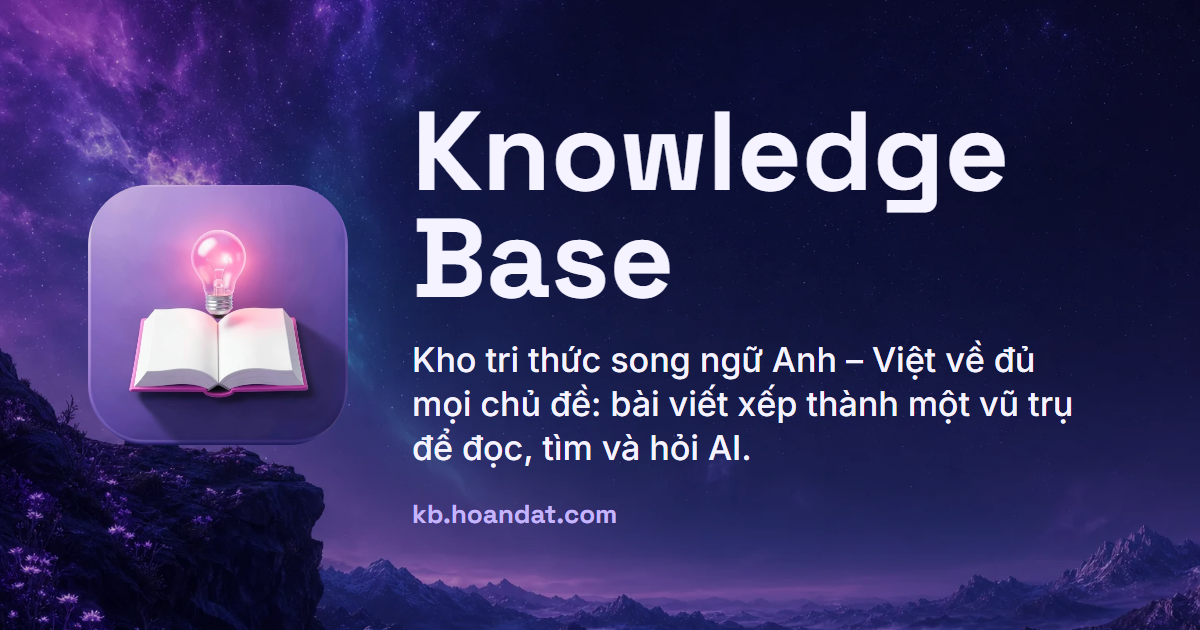
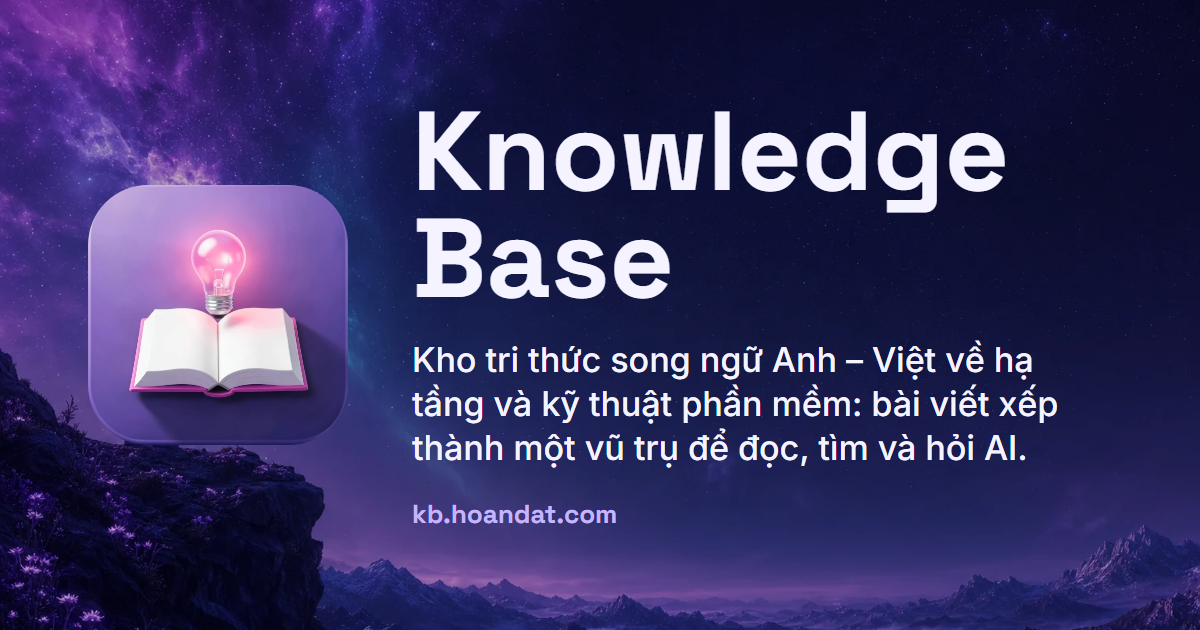
feat(content): scope the knowledge base to infrastructure and software engineering, with new crystal art for the new Spaces
Topics must be tech, the third-share rule is gone. Adds engineering Spaces (security, databases, email, web, CI/CD, AI) and a technical-marketing Space, their crystals and spare planet art.

Changed region(s): [[0.3392, 0.5429, 0.8942, 0.754]]

diff --git a/scripts/content-queue.test.ts b/scripts/content-queue.test.ts
@@ -11,7 +11,7 @@ const englishBody = `> [!TLDR]\n> - First point.\n> - Second point.\n\n## Introd
 /** The same in English. */
 const linkedEn = (title: string, ...links: string[]): string => article(`title: ${title}\ntags: test`, `${links.map((l) => `See [[${l}]].`).join(' ')}\n\n${englishBody}`);
 const spaces: Spaces = { existing: ['networking'], create: [{ slug: 'ky-nang', nameVi: 'Kỹ năng', nameEn: 'Skills', tint: '#FBCFE8', glow: '#EC4899', art: '/art/orb-universe.webp', unitVi: 'bài', unitEn: 'articles' }] };
-const topic = (slug: string, extra: Partial<Topic> = {}): Topic => ({ slug, space: 'ky-nang', lang: 'vi', name: slug, nameEn: slug, tech: false, brief: '', status: 'todo', ...extra });
+const topic = (slug: string, extra: Partial<Topic> = {}): Topic => ({ slug, space: 'ky-nang', lang: 'vi', name: slug, nameEn: slug, tech: true, brief: '', status: 'todo', ...extra });
 const empty: Ledger = { planets: [], posts: [] };
 /** The English twin of a Vietnamese test article: its title and each link get " EN" added. */
 const twinOf = (text: string): string => {
@@ -78,11 +78,11 @@ describe('links', () => {
 });
 
 describe('checkTopics', () => {
-  it('needs known Spaces, unique slugs, names and tech at most a third', () => {
-    expect(checkTopics([topic('a'), topic('b'), topic('c', { tech: true, space: 'networking' })], spaces)).toEqual([]);
+  it('needs known Spaces, unique slugs, names and engineering-only topics', () => {
+    expect(checkTopics([topic('a'), topic('b'), topic('c', { space: 'networking' })], spaces)).toEqual([]);
     const problems = checkTopics([topic('a', { space: 'nowhere' }), topic('a'), topic('B', { name: '' })], spaces).map((p) => p.message);
     expect(problems).toEqual(['unknown Space "nowhere"', 'slug is listed twice', 'slug must be lowercase letters, digits and dashes', 'name must be 1–80 characters']);
-    expect(checkTopics([topic('a', { tech: true }), topic('b')], spaces).map((p) => p.message)).toEqual(['1 of 2 topics are tech; keep tech at most a third']);
+    expect(checkTopics([topic('a', { tech: false })], spaces).map((p) => p.message)).toEqual(['tech must be true: the knowledge base covers engineering topics only']);
   });
 });
 

diff --git a/scripts/content-queue.ts b/scripts/content-queue.ts
@@ -54,7 +54,7 @@ export interface Topic {
   /** The Collection's name. */
   name: string;
   nameEn: string;
-  /** A tech topic; these stay at most a third of the list (the knowledge base covers all kinds of topics). */
+  /** Always true: the knowledge base covers infrastructure and software engineering only (cloud, servers, networks, data, mail, web, AI tooling). */
   tech: boolean;
   /** What the planet covers and the articles it could hold. */
   brief: string;
@@ -217,13 +217,11 @@ export function checkTopics(topics: readonly Topic[], spaces: Spaces, file = 'co
     if (!known.has(topic.space)) problems.push({ file: where, message: `unknown Space "${topic.space}"` });
     if (!(TOPIC_STATUSES as readonly string[]).includes(topic.status)) problems.push({ file: where, message: `status must be one of ${TOPIC_STATUSES.join(', ')}` });
     if (topic.lang !== 'vi' && topic.lang !== 'en') problems.push({ file: where, message: 'lang must be vi or en' });
-    if (typeof topic.tech !== 'boolean') problems.push({ file: where, message: 'tech must be true or false' });
+    if (topic.tech !== true) problems.push({ file: where, message: 'tech must be true: the knowledge base covers engineering topics only' });
     for (const [key, value] of [['name', topic.name], ['nameEn', topic.nameEn]] as const) {
       if (!value?.trim() || value.length > MAX_NAME_CHARS) problems.push({ file: where, message: `${key} must be 1–${MAX_NAME_CHARS} characters` });
     }
   }
-  const tech = topics.filter((t) => t.tech).length;
-  if (tech * 3 > topics.length) problems.push({ file, message: `${tech} of ${topics.length} topics are tech; keep tech at most a third` });
   return problems;
 }
 

diff --git a/docs/admin-api.md b/docs/admin-api.md
@@ -115,7 +115,7 @@ Bài đăng xong hiện ngay ở C09/C10 với nhãn Chính thức; `"hidden": t
 Hai cloud routine của Claude lo hàng chờ:
 
 - **Routine chiến lược** (Opus, mỗi ngày một lần): chỉ sửa `content/topics.json` và `content/spaces.json`. Nó giữ danh
-  sách chủ đề cân bằng giữa các Space, thêm hành tinh mới khi còn ít hơn 6 mục
+  sách chủ đề trong phạm vi kỹ thuật, cân bằng giữa các Space, thêm hành tinh mới khi còn ít hơn 6 mục
   `todo` và mở **đợt bổ sung** cho hành tinh đã đăng (đặt chủ đề `published` về `todo` kèm `brief` mới nêu các bài cần
   thêm). Nó không viết bài và không lập chủ đề `-en` cho hành tinh tiếng Việt: bản tiếng Anh đi kèm từng bài.
 - **Routine viết bài** (Sonnet, nhiều lượt mỗi ngày): mỗi lượt làm **một** mục `todo` đầu tiên trong danh sách, viết bài
@@ -125,8 +125,8 @@ Hai cloud routine của Claude lo hàng chờ:
   bổ sung** (1–5 bài, mỗi bài nối vào bài đã đăng hoặc đang chờ của chính hành tinh đó).
 
 GitHub Actions đăng bài **hiện ngay**, không chờ người duyệt (chủ dự án chốt 07/11/2026). Bài có lỗi thì quản trị ẩn
-hoặc sửa ở A02 (`/admin/content`), hoặc qua `PUT /api/admin/posts/:id/text`. kb là kho kiến thức đủ mọi chủ đề nên bài
-công nghệ không quá một phần ba.
+hoặc sửa ở A02 (`/admin/content`), hoặc qua `PUT /api/admin/posts/:id/text`. kb chỉ giữ chủ đề hạ tầng và kỹ thuật phần mềm (từ 21/11/2026; trước đó có cả đời sống, kỹ năng, văn hoá, khoa học): mọi chủ đề
+phải có `tech: true`, `check:queue` từ chối chủ đề khác.
 
 **Song ngữ (từ 08/11/2026):** mỗi bài tiếng Việt của hành tinh `lang: "vi"` có **bản dịch tiếng Anh** đi kèm, đăng
 như một ngôn ngữ khác của chính bài đó (cùng nhóm dịch, Space và Collection; giao diện chọn bản theo ngôn ngữ người

diff --git a/README.md b/README.md
@@ -3,7 +3,7 @@
 Thư mục repo: `kb-next` (tên hiển thị lấy từ [`brand.config.json`](brand.config.json), không có hậu tố `-next`).
 Chạy tại `https://kb.hoandat.com`, thuộc hệ sinh thái hoandat.com.
 
-Knowledge base công khai, song ngữ Anh – Việt về đủ mọi chủ đề (công việc, đời sống, học tập, công nghệ…), xếp thành một
+Knowledge base công khai, song ngữ Anh – Việt về hạ tầng và kỹ thuật phần mềm (cloud, Linux, mạng, Docker, Kubernetes, quan sát hệ thống, bảo mật, cơ sở dữ liệu, email, lập trình web, AI cho kỹ sư), xếp thành một
 "Universe" để đọc, tìm và hỏi AI. kb tự giữ nội dung trong database: bài chính thức sửa bằng trình soạn hoặc API quản trị ([`docs/admin-api.md`](docs/admin-api.md)); về sau AI tìm và bổ sung nội dung từ web. Giao diện bám sát bộ mock Universe đã chốt (51 board trong [`design/`](design)).
 
 **Trạng thái:** nền móng. Đăng nhập bằng tài khoản hoandat.com chạy được (kể cả đăng xuất từ IdP), mọi route đã có

diff --git a/CREDITS.md b/CREDITS.md
@@ -3,7 +3,7 @@
 ## AI-generated art
 
 The images in [`apps/web/public/art/`](apps/web/public/art) (the Universe landscapes, the central orb, the crystals,
-the stage platform and the illustrations) are AI-generated for the hoandat ecosystem; owned by hoandat, all rights
+the planets, the stage platform and the illustrations) are AI-generated for the hoandat ecosystem; owned by hoandat, all rights
 reserved (not CC0). They may not be reused outside Knowledge Base without permission.
 
 The share card picture [`apps/web/public/og-share.png`](apps/web/public/og-share.png) (the link preview of `/l/<token>`)
